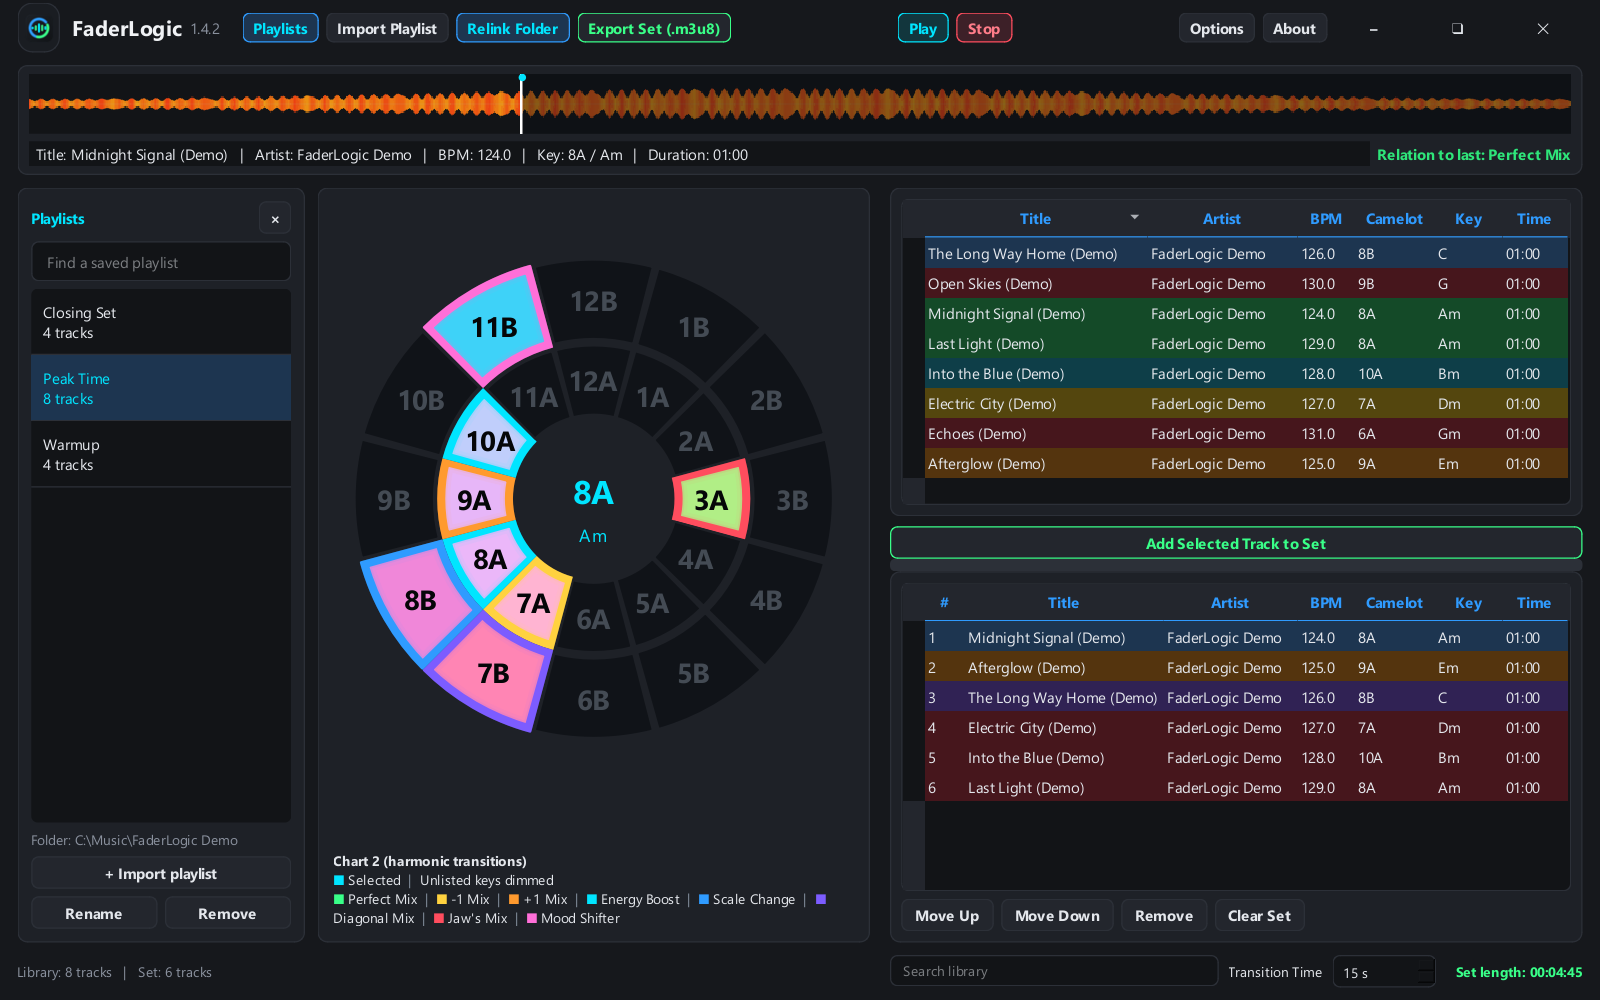
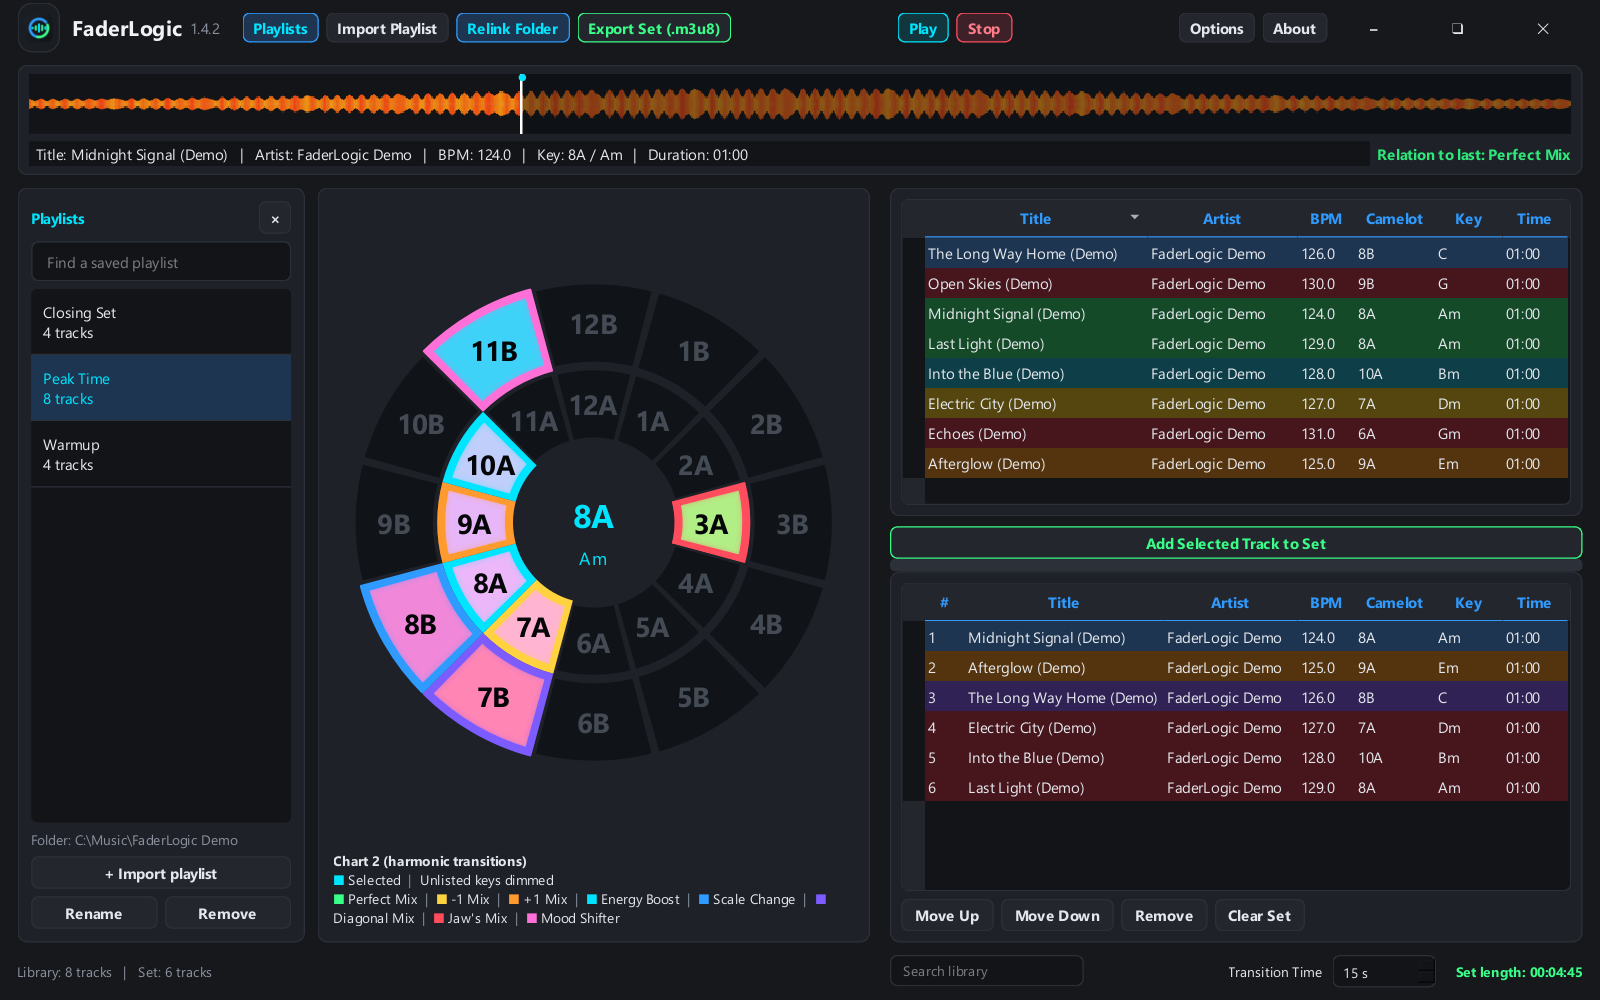
Add files via upload

Changed region(s): [[0.2188, 0.248, 0.5, 0.775], [0.4688, 0.589, 0.5, 0.651], [0.4688, 0.372, 0.5, 0.434]]

diff --git a/docs/VALIDATION.md b/docs/VALIDATION.md
@@ -2,9 +2,11 @@
 
 ## Application
 
-Verified on Windows x64 on **2026-10-28**: all **69 source tests passed**, the rebuilt FaderLogic executable passed native Windows startup/Options/theme/QR checks, and its bundle and version resources passed inspection.
+Verified on Windows x64 on **2026-10-28**: all **70 source tests passed**, the approved FaderLogic executable passed native Windows startup/Options/theme/QR checks, and its bundle and version resources passed inspection.
 
-A new layout regression verifies the key-filter control remains centered beneath the wheel and that showing, changing or clearing it leaves the wheel, tables, footer and window geometry unchanged. Workflow checks cover actual wedge hit-testing, filter/search combinations, playlist-switch clearing, independent sorting choices, persistence and exported order.
+The Metadata control remains a fixed 100 × 22 logical pixels beside Search on the right. A layout regression covers 1, 72 and 930 flagged tracks and clearing the warnings, checking that the button never expands and that the wheel, tables, key control, search and footer retain their geometry.
+
+A new layout regression verifies the key-filter control remains centered in the bottom footer beneath the wheel column and that showing, changing or clearing it leaves the wheel, tables, footer and window geometry unchanged. Workflow checks cover actual wedge hit-testing, filter/search combinations, playlist-switch clearing, independent sorting choices, persistence and exported order.
 
 The source suite covers both charts and all 1,152 directional pairs, accessible palettes including selection, fitted Both labels, independently rendered neighbour borders, all 40 waveform design/mode combinations, FFT bands, metadata Unknown handling, playlist persistence, relinking, ordered exports/reimports, themes, option controls and current-track preview reuse. Rebrand checks cover both playlist headers, direct import without a TXT prompt, migration of source/portable and installed libraries, committed SQLite WAL state, original-folder preservation and restoration of the previous waveform-mode preference.
 

diff --git a/docs/RELEASE_NOTES_1.4.2.md b/docs/RELEASE_NOTES_1.4.2.md
@@ -4,7 +4,9 @@ Click highlighted keys directly on the Camelot wheel to filter your library, con
 
 ## What's new
 
-- Click an actual highlighted wheel wedge to filter to that exact key. The wedge gains a brighter fill, dashed white inset and white dot while retaining its relationship color. Click again to clear, or use the centered key control beneath the wheel. Its space stays reserved so the layout does not move.
+- Compact, fixed-width Metadata review control beside Search on the right, keeping the active key control clear and the footer stable when a playlist contains missing fields.
+
+- Click an actual highlighted wheel wedge to filter to that exact key. The wedge gains a brighter fill, dashed white inset and white dot while retaining its relationship color. Click again to clear, or use the centered key control in the bottom footer. Its footer space stays reserved so the layout does not move.
 - Combine wheel filtering with text search. Changing saved playlists clears the filter. All five wheels, both charts and the colour-blind patterns remain supported.
 - New **Options → Behavior** preferences independently ignore leading punctuation and track-number prefixes when sorting Title. Both are off initially and saved when changed. Track names, files and the order of your built set remain intact.
 - **Detailed audio waveform** retains fine signed audio peaks and short transients. Choose Normal, RGB, shared-centreline 3-band or original colours, with the same renderer in Options and the main window. Existing waveform styles remain available.

diff --git a/docs/APPEARANCE.md b/docs/APPEARANCE.md
@@ -52,7 +52,7 @@ Appearance choices remain local to the preview until Apply. The theme/design/mod
 
 ## Library filters and sorting
 
-Click a highlighted wheel wedge to filter the library to its exact key. A brighter fill, dashed white inset and white dot mark the active filter. Click again, or use the centered key control beneath the wheel to clear it. The control reserves its space while hidden, keeping the workspace stable. Text search combines with the filter.
+Click a highlighted wheel wedge to filter the library to its exact key. A brighter fill, dashed white inset and white dot mark the active filter. Click again, or use the centered key control in the bottom footer to clear it. The control reserves its space while hidden, keeping the workspace stable. Text search combines with the filter.
 
 Options → Behavior provides independent saved switches to ignore leading punctuation and track-number prefixes when sorting titles. These settings leave displayed names, files and set/export order unchanged. Full supported formats are explained in Help.
 
